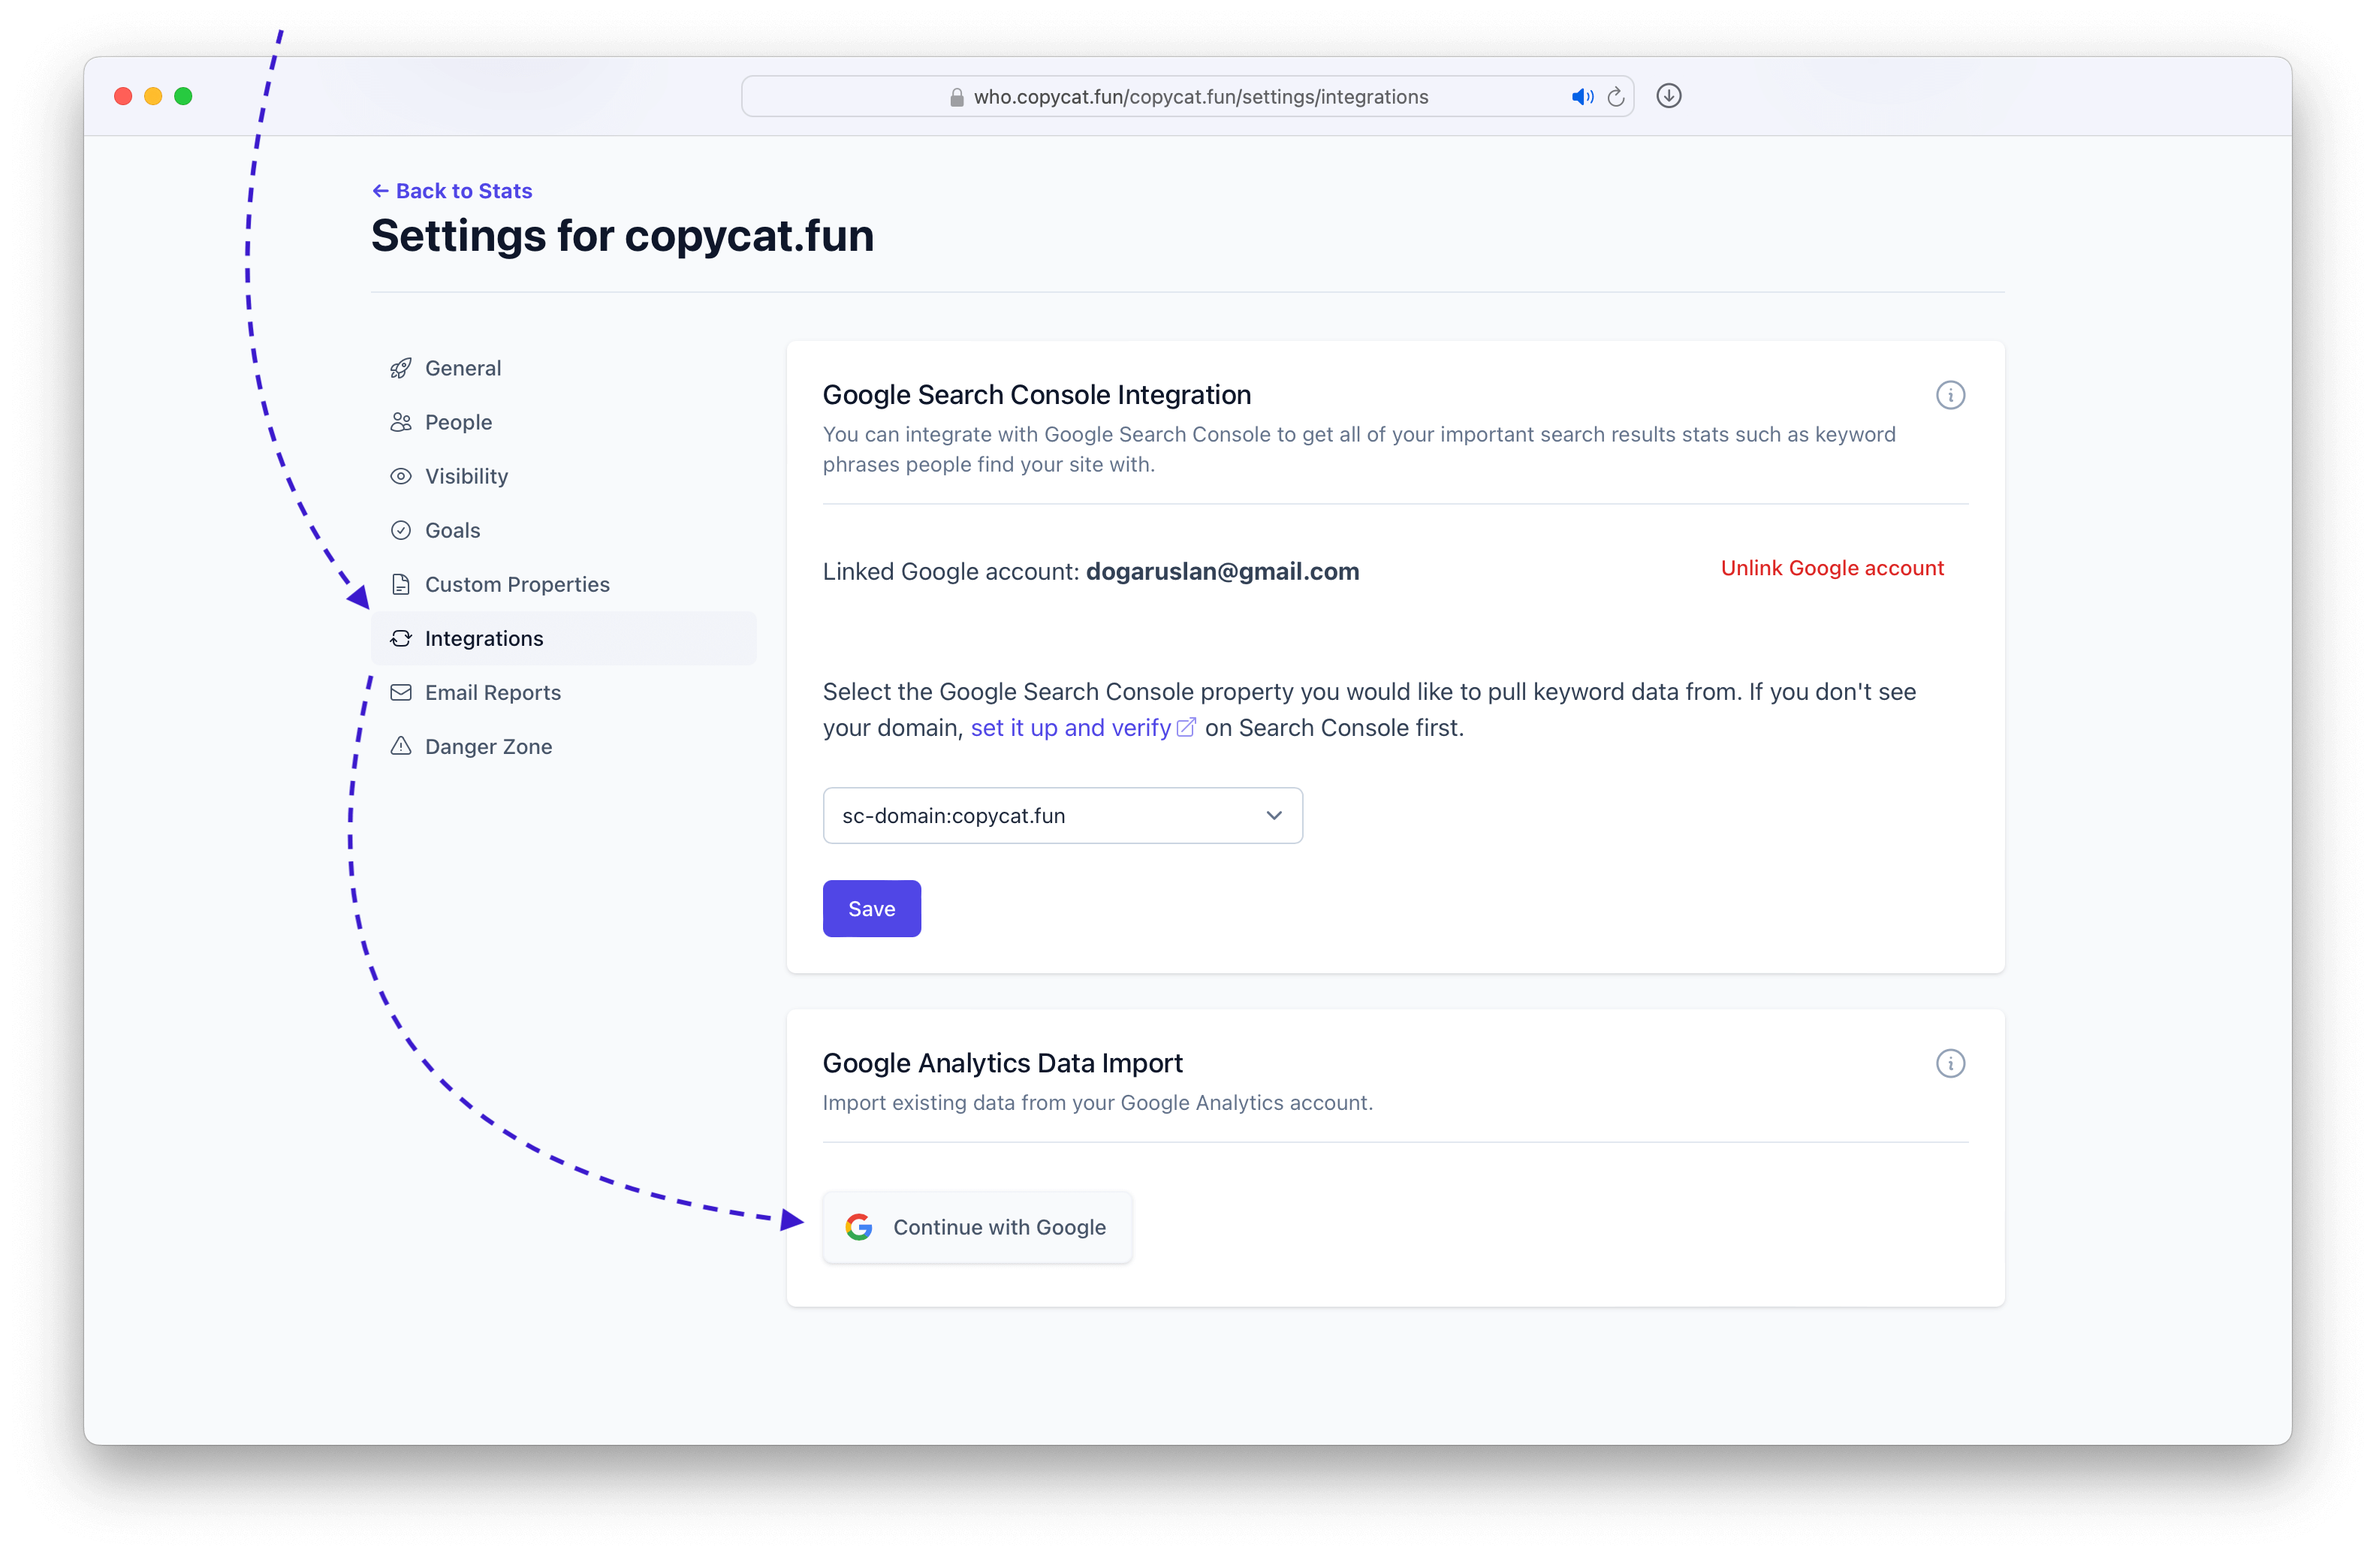
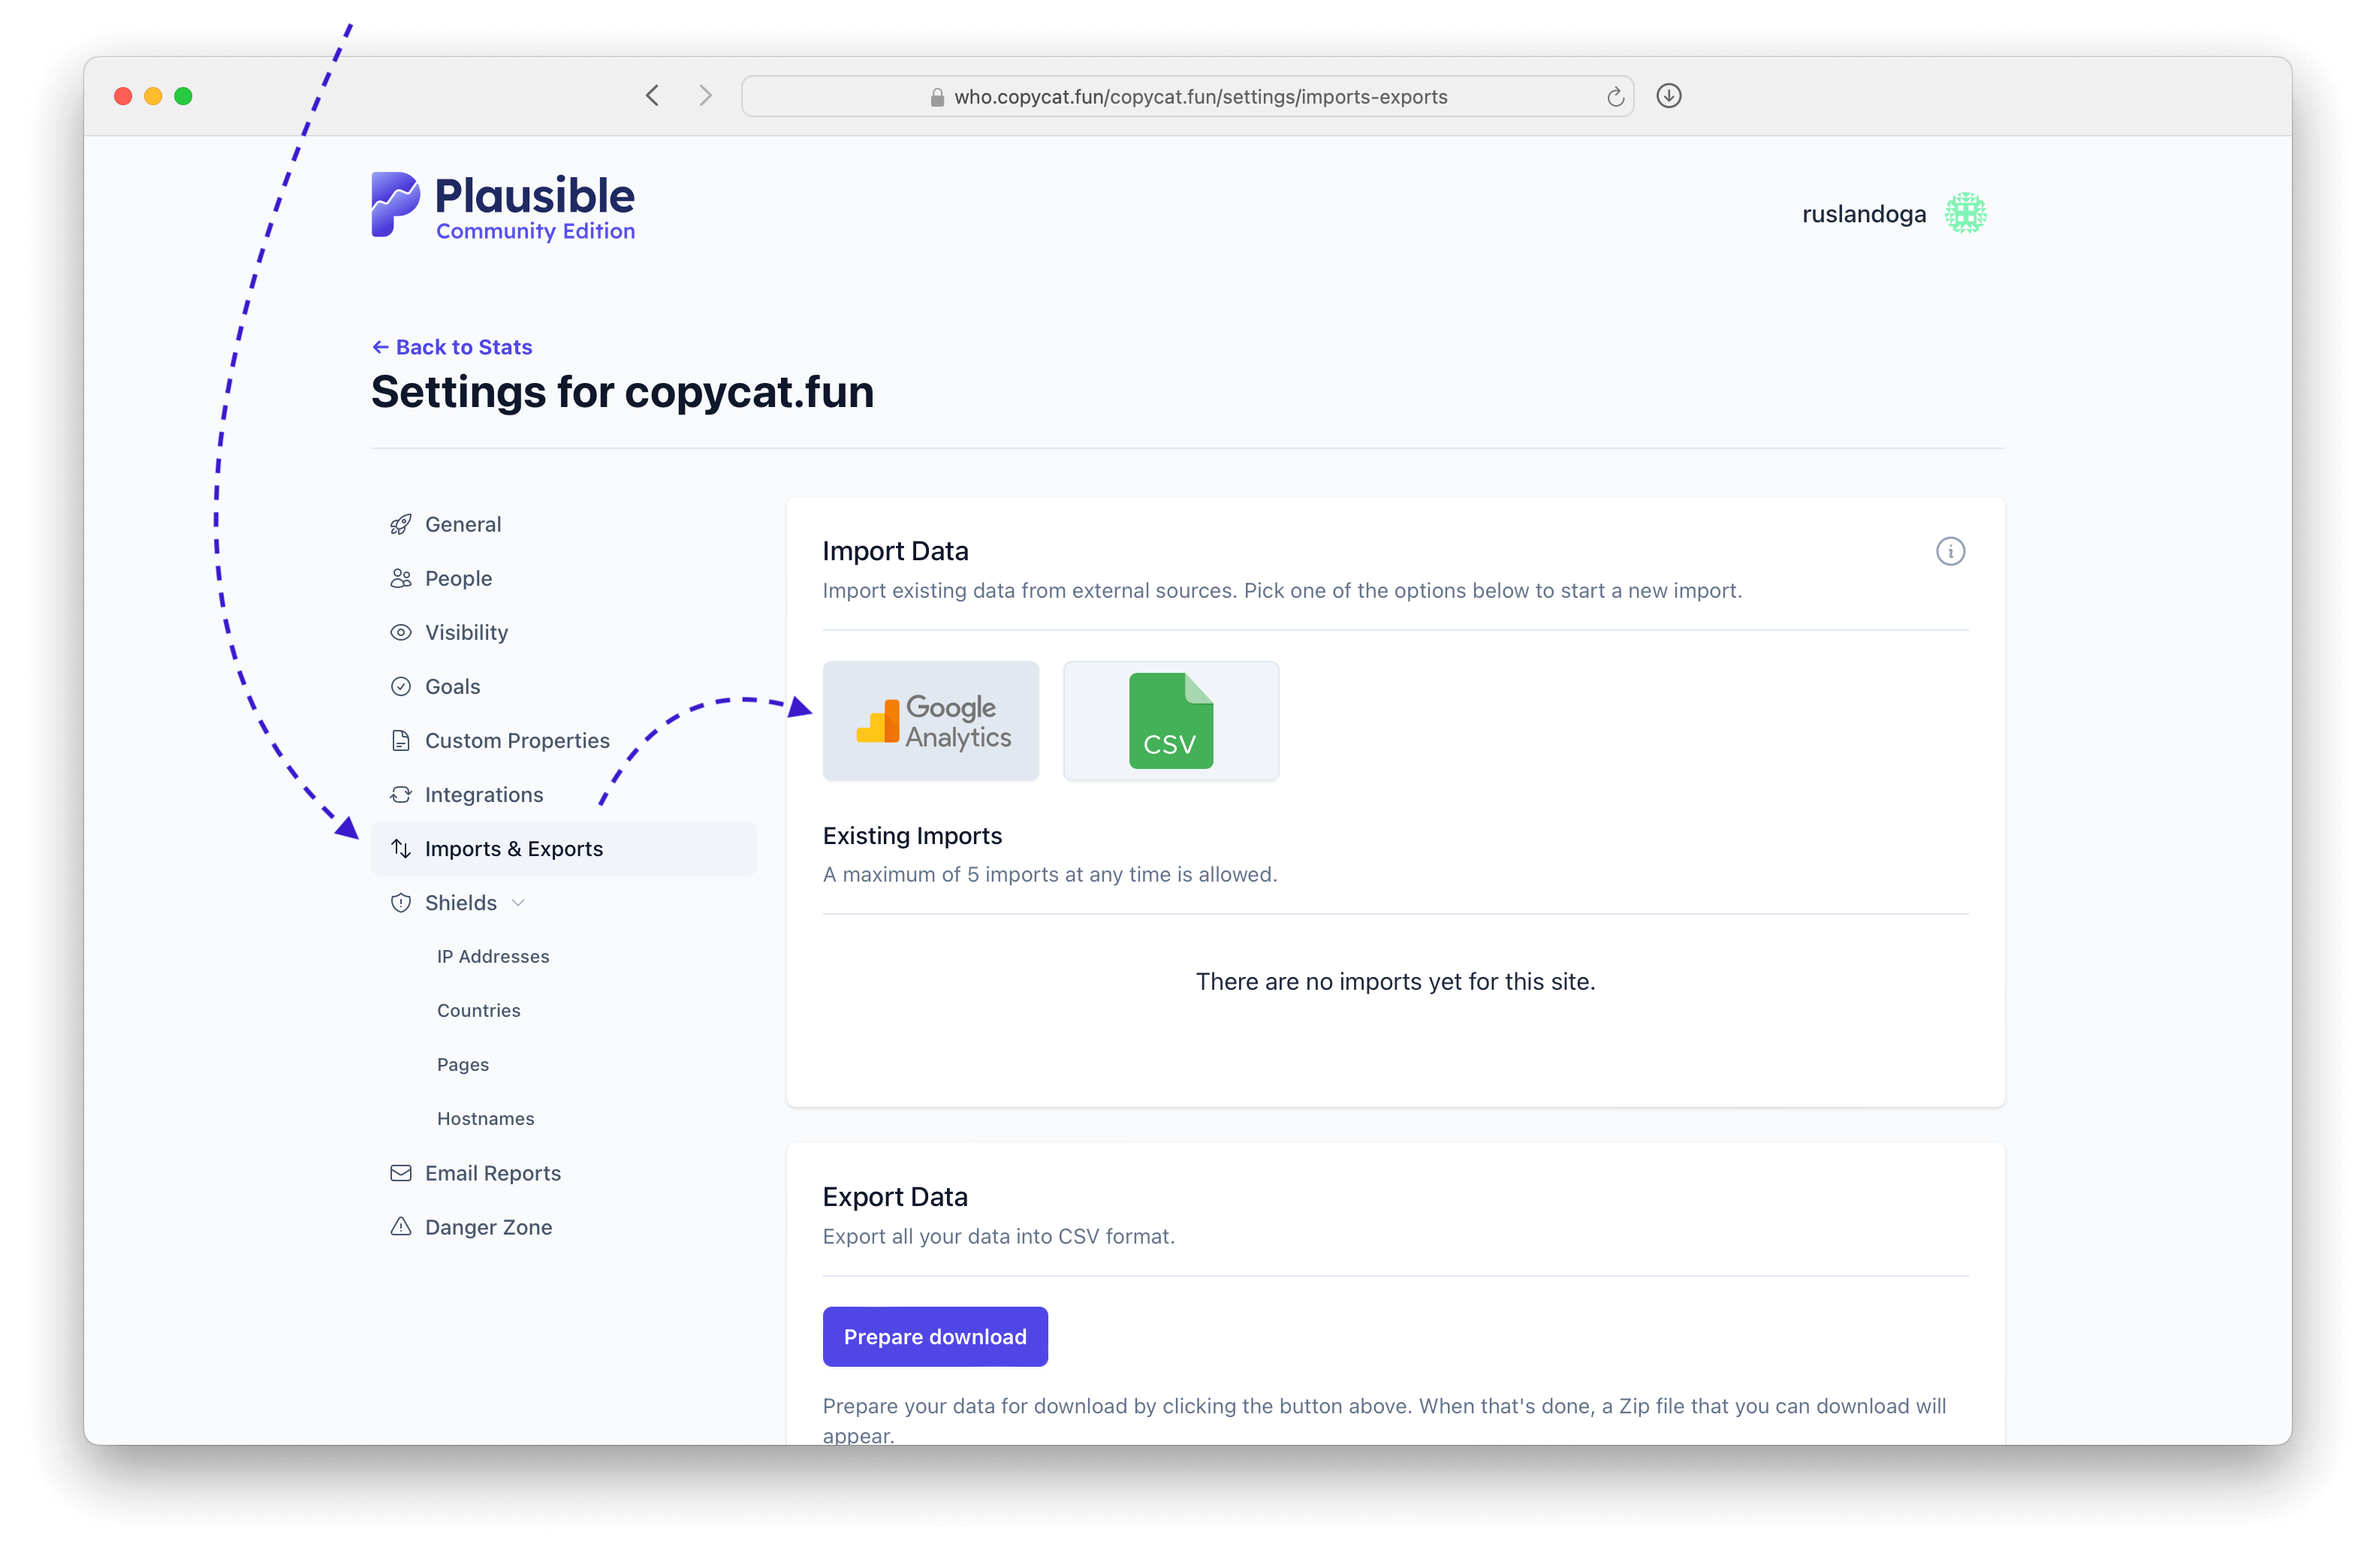
update google guide

diff --git a/README.md b/README.md
@@ -624,7 +624,7 @@ Here's the outline of what we'll do:
 - [Integrate with Google Search](#integrate-with-google-search)
   - [Enable APIs for Google Search integration](#enable-apis-for-google-search-integration)
   - [Link it with Plausible](#link-it-with-plausible)
-- [Import historical data from Universal Analytics](#import-historical-data-from-universal-analytics)
+- [Import historical data from UA and GA4](#import-historical-data-from-ua-and-ga4)
   - [Enable APIs for exports on Google Cloud](#enable-apis-for-exports-on-google-cloud)
   - [Import into Plausible](#import-into-plausible)
 
@@ -786,7 +786,7 @@ Go to the site settings on your Plausible dashboard.
 
 <img src="./images/6-plausible-settings-pick.png">
 
-In the settings select <kbd>Search Console</kbd> and press <kbd>Continue with Google</kbd>
+In the settings select <kbd>Integrations</kbd> and press <kbd>Continue with Google</kbd>
 
 > If you see a warning instead, that means you haven't set the <kbd>GOOGLE_CLIENT_ID</kbd> and <kbd>GOOGLE_CLIENT_SECRET</kbd> environment variables [correctly.](#issue-an-oauth-client-and-key-for-that-application)
 
@@ -814,7 +814,13 @@ Pick the property from Search Console.
 
 And now we should be able to drilldown into Google search terms like on [plausible.io](https://plausible.io/plausible.io/referrers/Google?source=Google)
 
-### Import historical data from Universal Analytics
+### Import historical data from UA and GA4
+
+Exporting historical data from Google requires enabling multiple APIs:
+
+<img src="./images/6-enabled-apis.png">
+
+Gotta Catch ‘Em All!
 
 #### Enable APIs for exports on Google Cloud
 
@@ -834,13 +840,31 @@ And enable it.
 
 <img src="./images/7-analytics-reporting-api-enable.png">
 
+Now search for <kbd>Google Analytics Admin API</kbd>
+
+<img src="./images/7-analytics-admin-api-search.png">
+
+And also enable it.
+
+<img src="./images/7-analytics-admin-api-enable.png">
+
+Finally search for <kbd>Google Analytics Data API</kbd>
+
+<img src="./images/7-analytics-data-api-search.png">
+
+And enable it!
+
+<img src="./images/7-analytics-data-api-enable.png">
+
+Phew!
+
 #### Import into Plausible
 
 Go to the site settings on your Plausible dashboard.
 
 <img src="./images/6-plausible-settings-pick.png">
 
-In the <kbd>General</kbd> settings section scroll down to <kbd>Data Import from Google Analytics</kbd> and press <kbd>Continue with Google</kbd> button.
+In the <kbd>Imports & Exports</kbd> settings section press on the <kbd>Google Analytics</kbd> button.
 
 > If you see a warning instead, that means you haven't set the <kbd>GOOGLE_CLIENT_ID</kbd> and <kbd>GOOGLE_CLIENT_SECRET</kbd> environment variables [correctly.](#issue-an-oauth-client-and-key-for-that-application)
 
